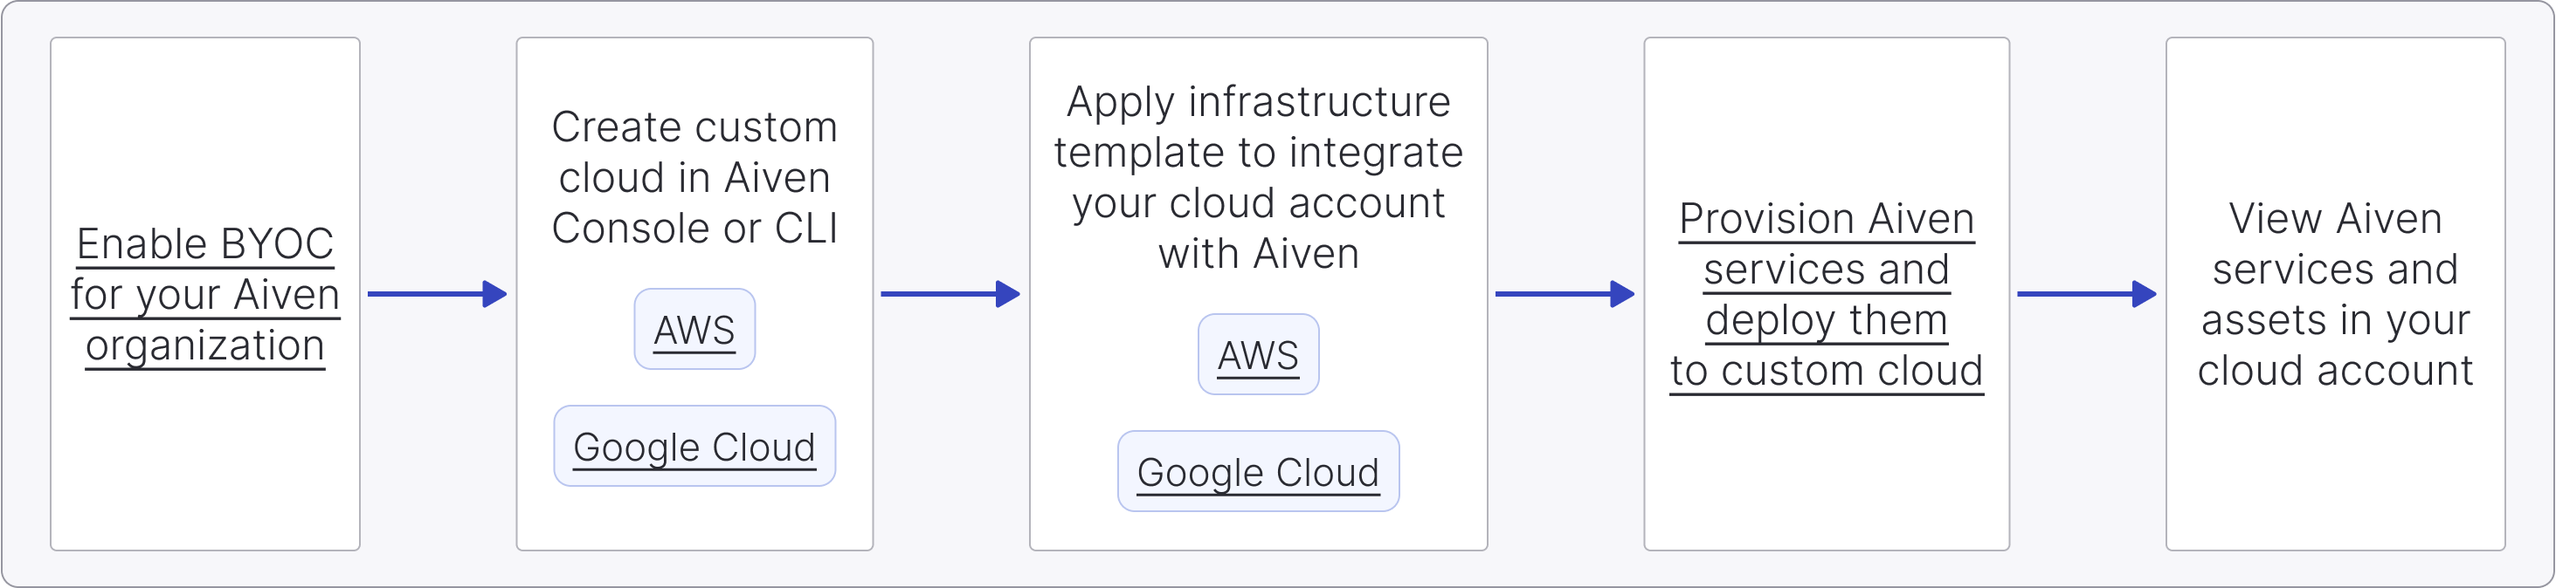
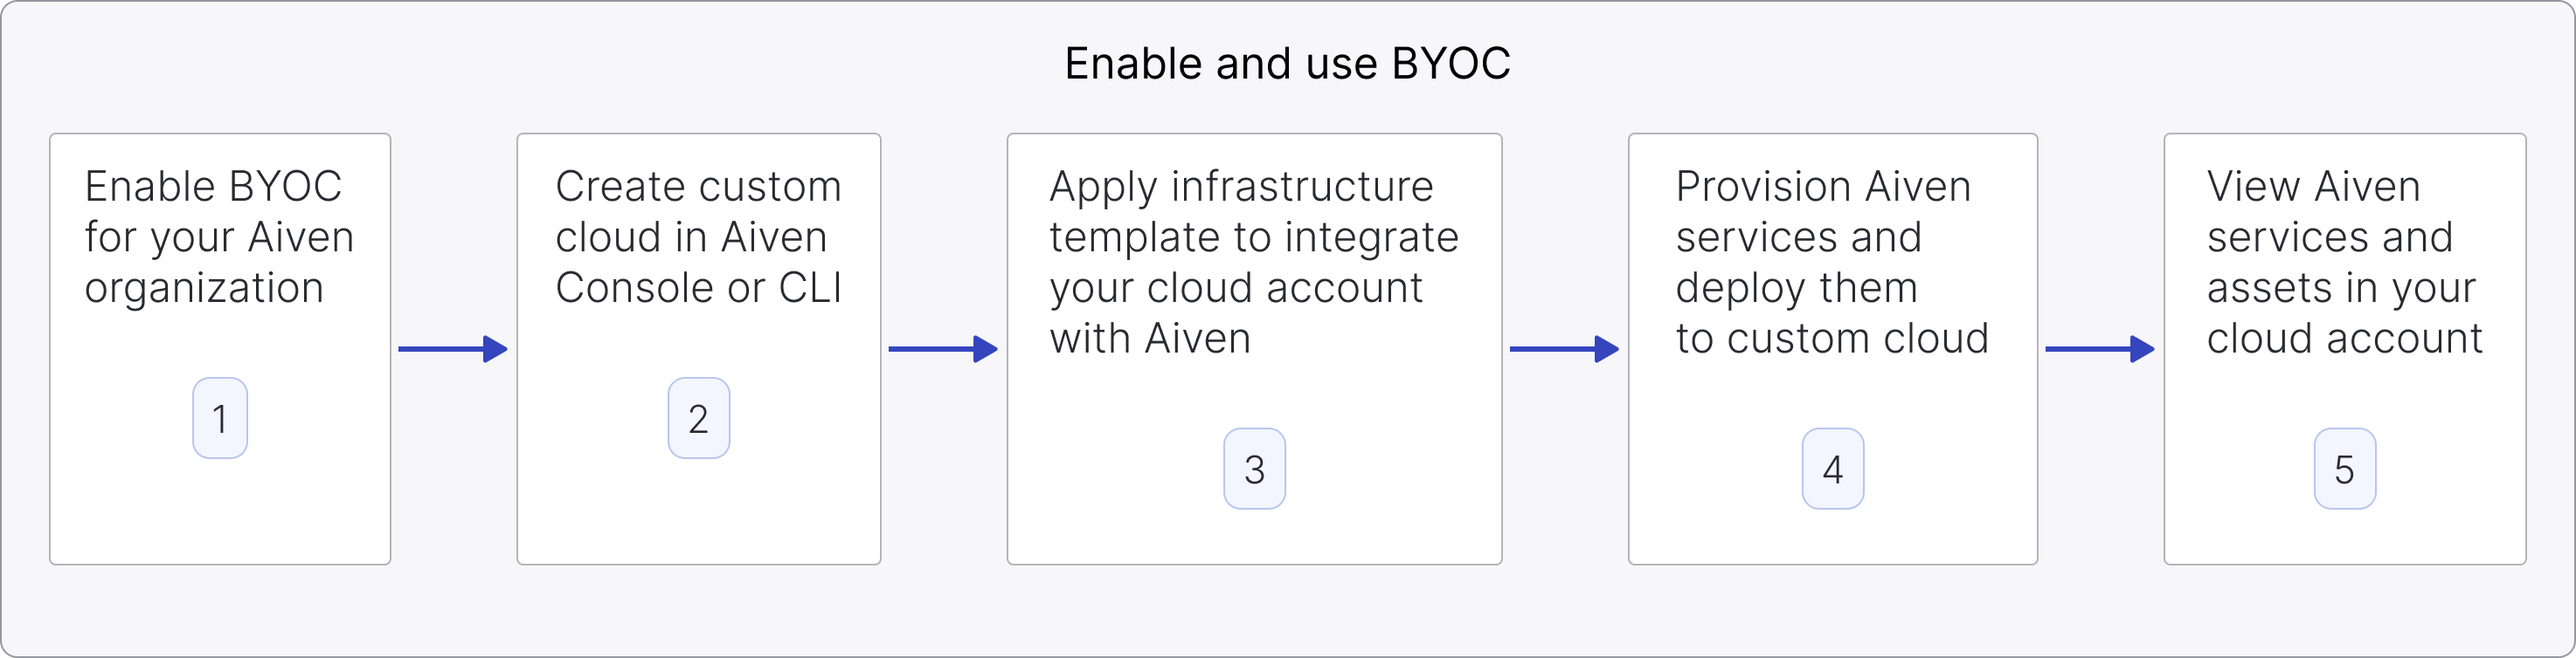
add byoc flow diagram

diff --git a/docs/platform/concepts/byoc.md b/docs/platform/concepts/byoc.md
@@ -31,6 +31,13 @@ infrastructure on the Aiven platform while keeping your data in your own cloud.
 
 <img src={byocHowItWorks} className="centered" alt="How BYOC works" width="100%" />
 
+1. Enable BYOC for your Aiven organization.
+1. Initiate the creation of a custom cloud in the Aiven Console or CLI.
+1. Apply the provided Terraform infrastructure template to integrate your cloud accont
+   with Aiven.
+1. Provision Aiven-managed services and deploy them to your new custom cloud.
+1. View Aiven-managed services and assets in your cloud account.
+
 ## Why use BYOC
 
 Consider using BYOC and custom clouds if you have specific business
